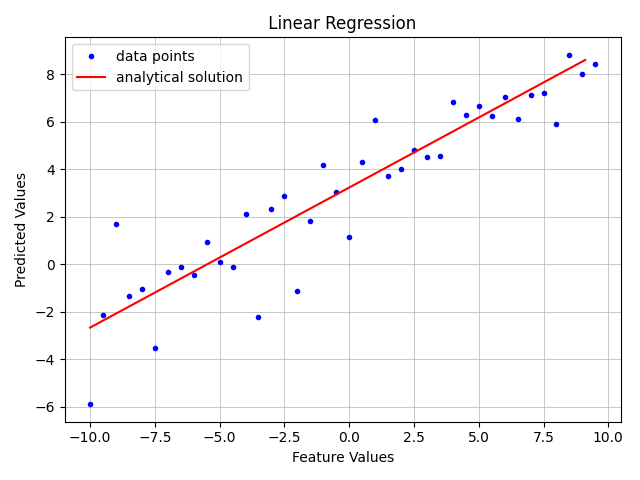
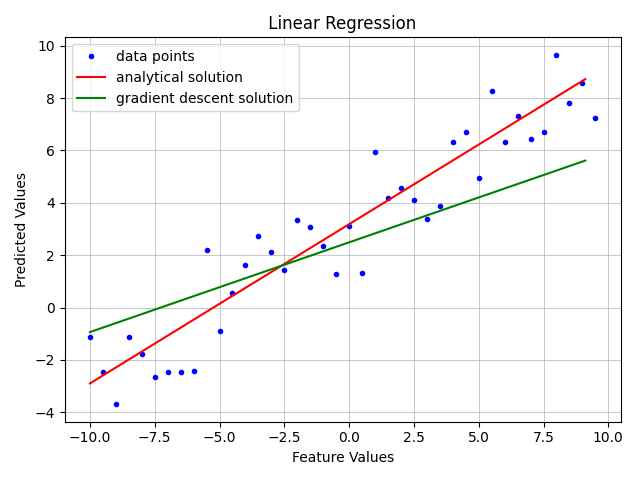
finished all experiments

diff --git a/assignment_2.py b/assignment_2.py
@@ -13,7 +13,14 @@ def poly_basis(X, degree):
     :param degree: degree of the polynomial of the basis function
     :return: the data after the basis function is applied
     '''
-    return X
+    polyBasis = X
+    for i in range(degree):
+        if i<=1:
+            continue
+        else:
+            Xraised = X**i
+            polyBasis = np.concatenate((polyBasis, Xraised), 1)
+    return polyBasis
 
 
 #TODONE - implement a function to add a bias as the first dimension of the data/////////ho much bias?
@@ -44,8 +51,7 @@ def train_regression_analytical(X, Y, penalty=0, regularization='none'):
     XT = np.transpose(X)  #X transpose
     XTX = np.dot(XT,X)
     if regularization == 'l2':
-        print("L2 not properly implemented haha UNLESS_________________________-------------------++++++++++++++++______________________00000000000000000000000")
-        I = np.eye(len(X)) 
+        I = np.eye(len(XTX)) 
         lambdaI = penalty*I
         XTX = XTX + lambdaI
 
@@ -54,7 +60,7 @@ def train_regression_analytical(X, Y, penalty=0, regularization='none'):
     return theta
 
 
-#TODO - implement gradient descent (basic)
+#TODONE - implement gradient descent (basic)
 #TODO - implement gradient descent for logistic regression log_on=True
 #TODO - implement gradient descent with L1 and L2 regularization
 def train_gradient_descent(X, Y, max_epoch, learning_rate, log_on=False, penalty=0, regularization='none'):
@@ -69,12 +75,33 @@ def train_gradient_descent(X, Y, max_epoch, learning_rate, log_on=False, penalty
     :param regularization: the regularization type (either 'none', 'l1', or 'l2')
     :return: theta - the model weights
     '''
-    theta = np.zeros((len(X[0]),1))#initialize Theta
-    print(theta)
-    for i in range(max_epoch):
-        predictions = np.dot(X,theta)
+    loss_function = "MSE"
 
-    pass
+    theta_analytical = train_regression_analytical(X, Y)
+    loss_analytical = calculate_loss(X, Y, theta_analytical, loss_function)
+    min_loss = loss_analytical +.001
+
+    theta = np.ones((len(X[0]),1))#initialize Theta
+    epoch = 0
+    while epoch < max_epoch and calculate_loss(X, Y, theta, loss_function) > min_loss: #loop
+        predictions = predict(theta , X, log_on)
+        loss = predictions - Y
+        lossX = np.dot(np.transpose(loss), X)
+        learned_lossX = learning_rate*lossX
+        learned_lossX_T = np.transpose(learned_lossX)
+
+        if regularization == "l1":
+            learned_lossX_T = learned_lossX_T + penalty*np.sign(theta)
+        elif regularization == "l2":
+            learned_lossX_T = learned_lossX_T + penalty*theta
+
+        theta = theta - np.transpose(learned_lossX) #calc new theta
+        epoch += 1
+        # print(epoch)
+        # print(calculate_loss(X, Y, theta, loss_function))
+
+
+    return theta #done
 
 
 #TODONE - implement a function calculate the predicted values based on data and model weights.
@@ -113,7 +140,10 @@ def normalize(X, mean=None, stdev=None):
 
     Xnorm = (X - mean)/stdev
     
-    return (Xnorm,mean, stdev)
+    return (Xnorm, mean, stdev)
+
+def H_theta(X,theta):
+    return 1 / (1 + np.exp(-np.dot(X,theta)))
 
 
 #TODO - implement a function to calculate loss. The two loss functions (objective functions) are Normnalized Binary
@@ -133,30 +163,28 @@ def calculate_loss(X, Y, theta, loss_function, log_on=False, regularization_type
     :return: the loss
     '''
 
-    loss = 0
     predictions = predict(theta, X, log_on)
     if (loss_function == "BCE"):
-        ((Y - predictions)**2).mean()
-        pass
+        YT = np.transpose(Y)
+        H = H_theta(X,theta)
+        log_H_theta = np.log(H)
+        one_minus_Y_T = np.transpose((np.ones((len(Y[0]),1)) - Y))
+        log_1_H = np.log(np.ones((len(X),1)) - H)
+        YT_Log_H = np.dot(YT,log_H_theta)
+        minus_Y_T_log_H = np.dot(one_minus_Y_T, log_1_H)
+        return -(YT_Log_H + minus_Y_T_log_H)/len(X)
 
     elif (loss_function == "MSE"):
+        least_squares = (Y - predictions)**2
+        if regularization_type == "l1":
+            return least_squares + penalty* np.abs(theta)
+        elif regularization_type == "l2":
+            return least_squares + penalty*(np.dot(np.transpose(theta), theta))
+
         return ((Y - predictions)**2).mean()
     else:
         print("ERROR: unknown loss function: ", loss_function)
         return -1
-
-    # add the regularization component
-    if (regularization_type == 'l1'):
-        pass
-    elif (regularization_type == 'l2'):
-        pass
-    elif (regularization_type == 'none'):
-        pass  # do nothing
-    else:
-        print("ERROR: unknown regularizer")
-        exit()
-
-    return loss
 
 # Code provided, you don't need to modify
 def threshold_predictions(predicted_values, threshold):
@@ -218,8 +246,8 @@ def experiment_1():
     '''
 
     # degree of polynomial to fit
-    max_epoch = 50
-    learning_rate = 0.01
+    max_epoch = 300
+    learning_rate = 0.0001
     loss_function = "MSE"
 
     # create data
@@ -272,7 +300,7 @@ def experiment_2():
     4) Look at the "threshold_predictions" function what is it doing? Why is it needed for classification but not
        regression?
     '''
-    learning_rate = 0.01
+    learning_rate = 0.00001
     threshold = 0.5
     loss_function = "BCE"
 
@@ -354,7 +382,7 @@ def experiment_3():
     '''
 
     # degree of polynomial to fit
-    degree = 2  # degree of polynomial
+    degree = 4  # degree of polynomial
     loss_function = 'MSE'
 
     # create data
@@ -402,10 +430,10 @@ def experiment_4():
     '''
 
     # degree of polynomial to fit
-    degree = 1  # degree of polynomial
-    max_epoch = 50
-    learning_rate = 0.01
-    threshold = 0.5
+    degree = 5  # degree of polynomial
+    max_epoch = 10000
+    learning_rate = 0.0001
+    threshold = 0.60      #.221 5 deg poly
     log_on = True  # turn this off to turn off logistic functions
     loss_function = 'BCE'
 
@@ -456,9 +484,9 @@ def experiment_5():
     '''
 
     # Hyper parameters
-    degree = 1  # degree of polynomial
+    degree = 4  # degree of polynomial
     threshold = 0.5
-    max_epoch = 50
+    max_epoch = 30000
     learning_rate = 0.001
     log_on = True
     penalty = 0
@@ -466,7 +494,7 @@ def experiment_5():
     loss_function = 'BCE'
 
     # create data
-    data, labels = data_generator.generate_experiment_6_data()
+    data, labels = data_generator.generate_experiment_5_data()
 
     # set up X for regression
     X = poly_basis(data, degree)
@@ -529,10 +557,10 @@ def experiment_6():
     '''
 
     # Hyper parameters
-    degree = 15  # degree of polynomial
+    degree = 5  # degree of polynomial
     max_epoch = 5000
-    learning_rate = 0.01
-    penalty = 0.1
+    learning_rate = 0.001
+    penalty = .00001
     loss_function = 'MSE'
 
     # create data
@@ -591,9 +619,10 @@ def experiment_6():
 #                 Run the Script
 #############################################################
 if __name__ == '__main__':
-    experiment_1()
+    # experiment_1()
     # experiment_2()
     # experiment_3()
     # experiment_4()
     # experiment_5()
+    experiment_6()
     plt.show()
